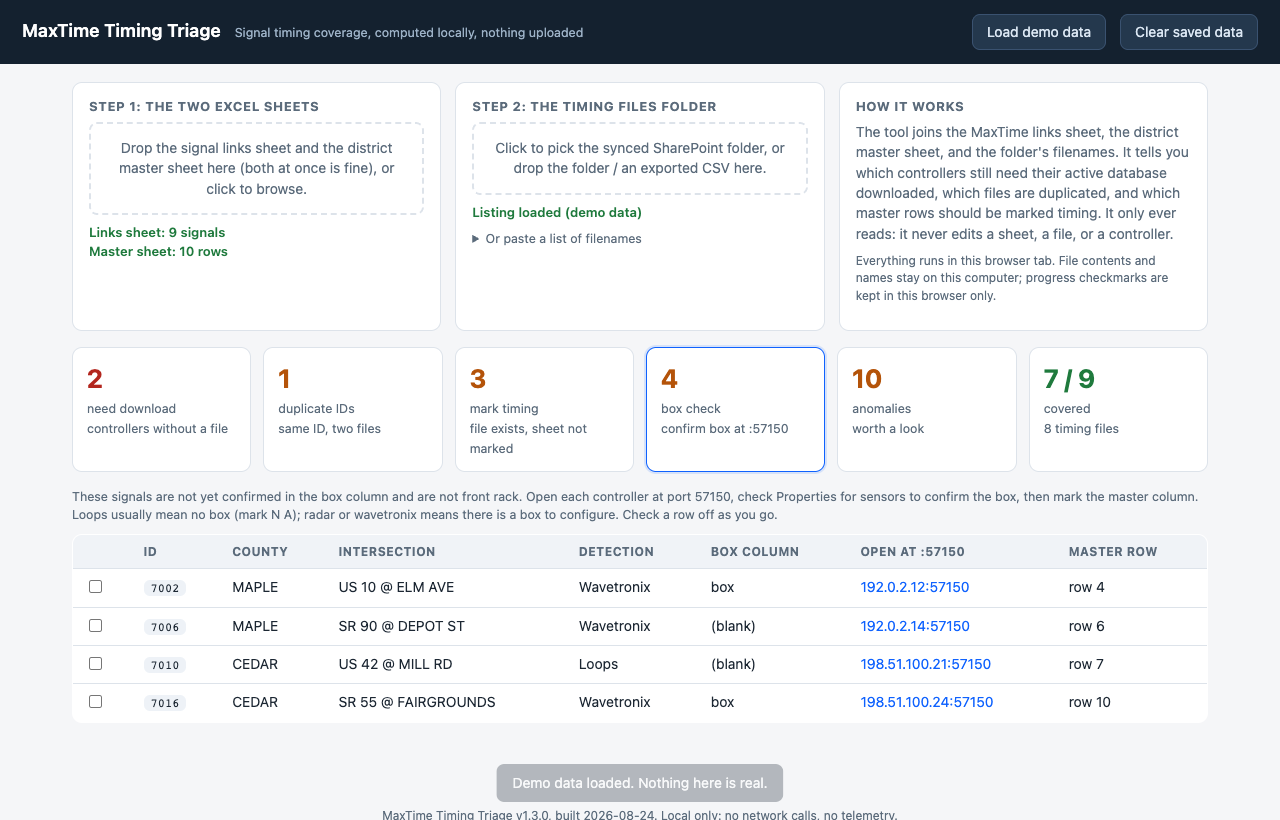
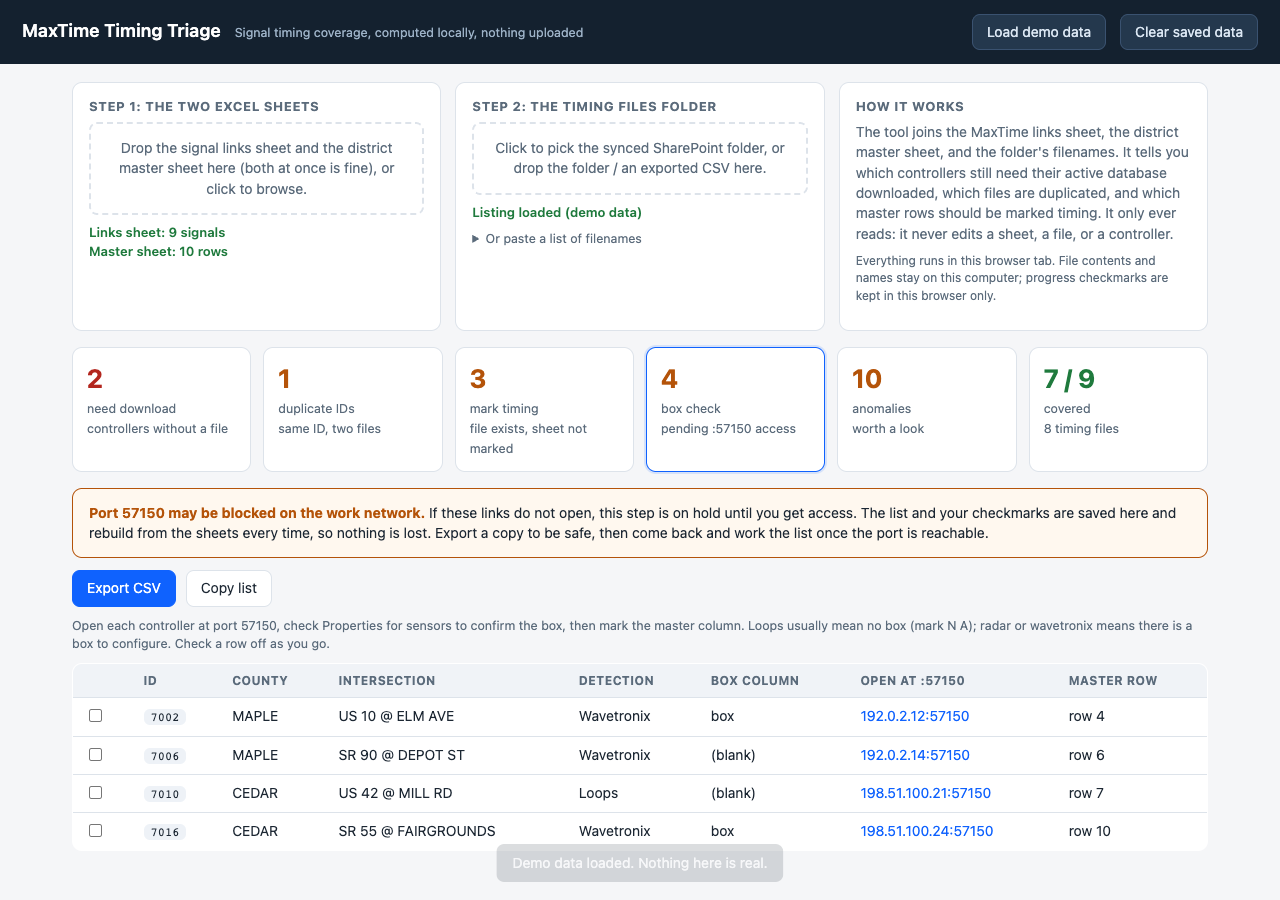
Handle blocked port 57150: mark box check pending, add export and copy
The work network may block port 57150, so the box confirmation cannot be
done yet. The box check tab now shows a clear on-hold banner, keeps the full
list and the persistent checkmarks ready for when access arrives, and adds
Export CSV and Copy list so the queue can be saved outside the browser. Adds
WORKFLOW.md, a step by step for completing the task on the work computer with
the box step deferred.

diff --git a/webapp/index.html b/webapp/index.html
@@ -127,7 +127,7 @@
 
 <script>
 "use strict";
-const BUILD = "v1.3.0, built 2026-08-24";
+const BUILD = "v1.4.0, built 2026-08-24";
 document.getElementById("stamp").textContent =
   "MaxTime Timing Triage " + BUILD + ". Local only: no network calls, no telemetry.";
 
@@ -642,7 +642,7 @@ function renderSummary() {
       "file exists, sheet not marked"],
     ["box", r.box_check.length, "box check", "n-warn",
       (() => { const d = r.box_check.filter(e => state.boxdone[e.id]).length;
-        return d ? d + " checked off" : "confirm box at :57150"; })()],
+        return d ? d + " checked off" : "pending :57150 access"; })()],
     ["anom", anomalyCount(r.anomalies), "anomalies", "n-warn", "worth a look"],
     ["cov", (Object.keys(state.links).length - r.needs_download.length) +
       " / " + Object.keys(state.links).length,
@@ -746,12 +746,20 @@ function renderPanel() {
       return;
     }
     p.innerHTML = `
+      <div class="card" style="border-color:var(--warn);background:#fff8ef;
+        margin-bottom:12px">
+        <b style="color:var(--warn)">Port 57150 may be blocked on the work
+        network.</b> If these links do not open, this step is on hold until you
+        get access. The list and your checkmarks are saved here and rebuild from
+        the sheets every time, so nothing is lost. Export a copy to be safe, then
+        come back and work the list once the port is reachable.</div>
       <div class="bar">
-        <span class="note">These signals are not yet confirmed in the box column
-        and are not front rack. Open each controller at port 57150, check
-        Properties for sensors to confirm the box, then mark the master column.
-        Loops usually mean no box (mark N A); radar or wavetronix means there is
-        a box to configure. Check a row off as you go.</span>
+        <button class="primary" id="btnBoxCsv">Export CSV</button>
+        <button id="btnBoxCopy">Copy list</button>
+        <span class="note">Open each controller at port 57150, check Properties
+        for sensors to confirm the box, then mark the master column. Loops usually
+        mean no box (mark N A); radar or wavetronix means there is a box to
+        configure. Check a row off as you go.</span>
       </div>
       <table><thead><tr><th></th><th>ID</th><th>County</th><th>Intersection</th>
       <th>Detection</th><th>Box column</th><th>Open at :57150</th>
@@ -774,6 +782,14 @@ function renderPanel() {
         else delete state.boxdone[cb.dataset.box];
         store.set("boxdone", state.boxdone); renderSummary(); renderPanel();
       };
+    document.getElementById("btnBoxCsv").onclick = () =>
+      downloadCSV("box_check.csv",
+        [["id", "county", "main", "side", "detection", "box_column", "url_57150", "master_row"],
+         ...r.box_check.map(e => [e.id, e.county, e.main, e.side, e.detection,
+           (e.box_fr + (e.box_done ? " / " + e.box_done : "")), e.url, e.master_row])]);
+    document.getElementById("btnBoxCopy").onclick = () =>
+      copyText(r.box_check.map(e => e.id + "\t" + e.url + "\trow " + e.master_row).join("\n"),
+        "box check list");
   } else if (state.tab === "anom") {
     const a = r.anomalies;
     const section = (title, exp, items) => items.length ? `

diff --git a/WORKFLOW.md b/WORKFLOW.md
@@ -1,0 +1,82 @@
+# How to complete the task on the work computer
+
+Everything below runs on the work machine. The dashboard is a single HTML file
+opened in Edge; the downloader is a small Python script. Nothing is uploaded.
+
+## One time setup
+
+1. From the repository, save `webapp/index.html` to the work computer (open the
+   file, use the raw view, save keeping the `.html` extension), or email it to
+   yourself and save the attachment. Double click it to open in Edge.
+2. Optional, only needed for the automatic downloader: confirm Python 3 is
+   present (`python3 --version` or `py --version`).
+
+## Step 1: load the three inputs
+
+In the dashboard:
+
+1. Drop the signal links sheet and the district master sheet on the first card.
+2. Point the second card at the timing files: pick the synced SharePoint
+   folder, drop a CSV exported from the library, or paste the file names.
+
+The summary cards fill in: need download, duplicate IDs, mark timing, box check,
+anomalies, coverage. Everything is matched by the four digit signal ID, so odd
+names (a stray space, a dash, a missing county code) still line up.
+
+## Step 2: mark timing in the master sheet
+
+Open the **mark timing** tab. Each row is a signal whose timing file is already
+in SharePoint but whose master row does not say so yet. For each one, put the
+timing note in the master sheet's timing column at the row shown. Use **Copy ID
+and row list** to paste them in quickly.
+
+## Step 3: download the missing databases
+
+Open the **need download** tab. These signals have no timing file.
+
+For each row, either:
+
+- Click the controller link, sign in, go Administration, Database Management,
+  User Databases, the entry marked Active, Download; or
+- Use the automatic downloader: click **Export CSV for the downloader**, then on
+  the work computer run
+  `python3 downloader/fetch_missing.py needs_download.csv --out downloaded`.
+  Do one first with `--only <id>` and confirm it before running the rest.
+
+Open each downloaded database and confirm it is the intersection you expect
+before placing it in SharePoint. Only add a file if that ID is not already
+there. Check the row off in the tool as you finish it; the checkmarks persist.
+
+If a row shows an orange "found a non timing file for this ID" note, a file
+with that ID already exists but is a key file or a subsystem export, not a
+timing database. Open it and decide by hand before downloading a new one.
+
+## Step 4: work the anomalies
+
+Open the **anomalies** tab and handle each group:
+
+- **Nonstandard names**: matched by ID but worth retitling to `CCC_IDID_name`.
+- **County prefix disagrees**: the three digit prefix does not match the master.
+- **Subsystem files (ICWS, AWF)**: not timing databases, left as is.
+- **No recognizable ID**: rename so the ID is present, or set aside.
+- **Linked signals missing from the master**: before adding a row, search the
+  master for that intersection in case the row exists with the ID left blank.
+- **Duplicate ID rows in the master**: compare the two rows (shown side by side)
+  and keep the correct one; flag rather than delete unless you are sure.
+
+## Step 5: box check (on hold until port access)
+
+Open the **box check** tab. These signals are not yet confirmed in the box
+column and are not front rack. Confirming a box means opening the controller at
+port **57150** and checking Properties for sensors.
+
+If port 57150 is blocked on the work network, this step waits. The list and your
+checkmarks are saved in the tool and rebuild from the sheets every time, so
+nothing is lost. Click **Export CSV** to keep a copy. When you get access, open
+each link, confirm the box (loops usually mean no box, mark N A; radar or
+wavetronix means there is a box to configure), and update the master column.
+
+## Step 6: finish up
+
+Once the rest is done, rename the master sheet's box column from "Box Verified"
+to "Box Configuration Downloaded". The tool reads either name.
